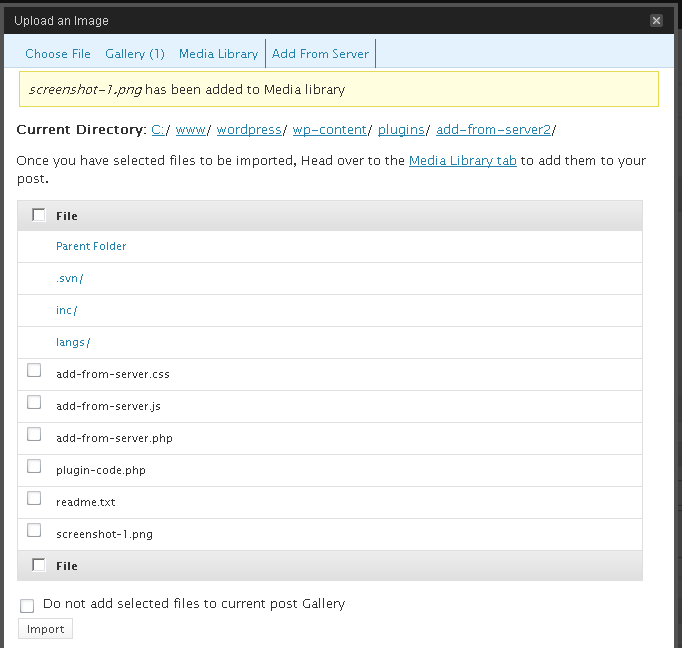
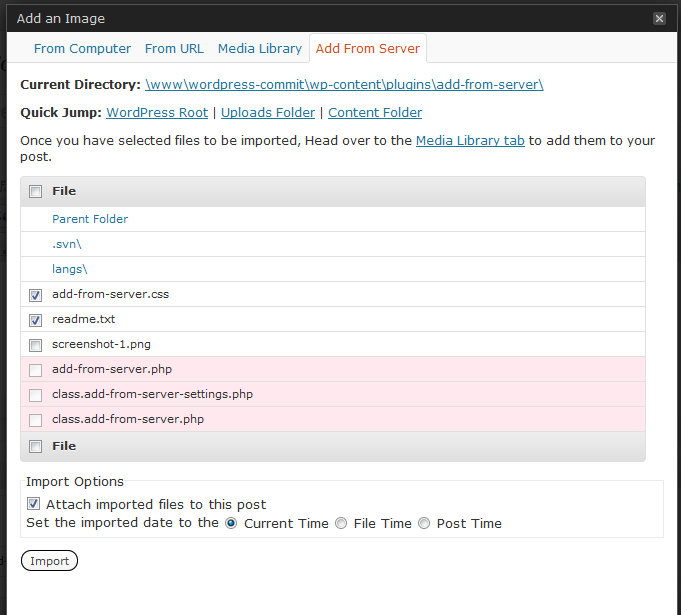
git-svn-id: http://plugins.svn.wordpress.org/add-from-server/trunk@344445 b8457f37-d9ea-0310-8a92-e5e31aec5664

Changed region(s): [[0.0, 0.0, 1.0, 1.0], [0.9251, 0.4943, 0.9559, 0.6797]]

diff --git a/class.add-from-server.php b/class.add-from-server.php
@@ -264,7 +264,7 @@ die(); */
 		extract( $wp_filetype );
 		
 		if ( ( !$type || !$ext ) && !current_user_can( 'unfiltered_upload' ) )
-			return new WP_Error('wrong_file_type', __( 'File type does not meet security guidelines. Try another.' ) ); //A WP-core string..
+			return new WP_Error('wrong_file_type', __( 'Sorry, this file type is not permitted for security reasons.' ) ); //A WP-core string..
 
 		//Is the file allready in the uploads folder?
 		if ( preg_match('|^' . preg_quote(str_replace('\\', '/', $uploads['basedir'])) . '(.*)$|i', $file, $mat) ) {
@@ -548,7 +548,7 @@ die(); */
 					$sanname = preg_replace('![^a-zA-Z0-9]!', '', $filename) . '-' . ++$i;
 				$names[] = $sanname;
 		?>
-			<tr class="<?php echo esc_attr(implode(' ', $classes)); ?>" title="<?php if ( ! $file_meets_guidelines ) { _e('This filetype does not meet the Security guidelines, Please see the FAQ.', 'add-from-server'); } ?>">
+			<tr class="<?php echo esc_attr(implode(' ', $classes)); ?>" title="<?php if ( ! $file_meets_guidelines ) { _e('Sorry, this file type is not permitted for security reasons. Please see the FAQ.', 'add-from-server'); } ?>">
 				<th class='check-column'><input type='checkbox' id='file-<?php echo $sanname; ?>' name='files[]' value='<?php echo esc_attr($filename) ?>' <?php disabled(!$file_meets_guidelines); ?> /></th>
 				<td><label for='file-<?php echo $sanname; ?>'><?php echo $filename ?></label></td>
 			</tr>

diff --git a/add-from-server.php b/add-from-server.php
@@ -1,7 +1,7 @@
 <?php
 /*
 Plugin Name: Add From Server
-Version: 2.4
+Version: 3.0
 Plugin URI: http://hulse.com.au/plugins/add-from-server/
 Description: Plugin to allow the Media Manager to add files from the webservers filesystem. <strong>Note:</strong> All files are copied to the uploads directory.
 Author: Dion Hulse
